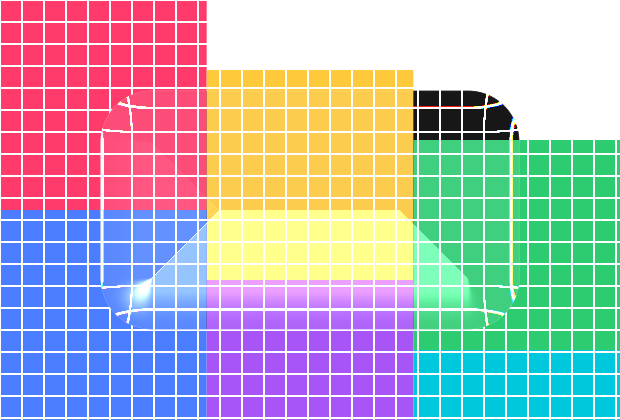
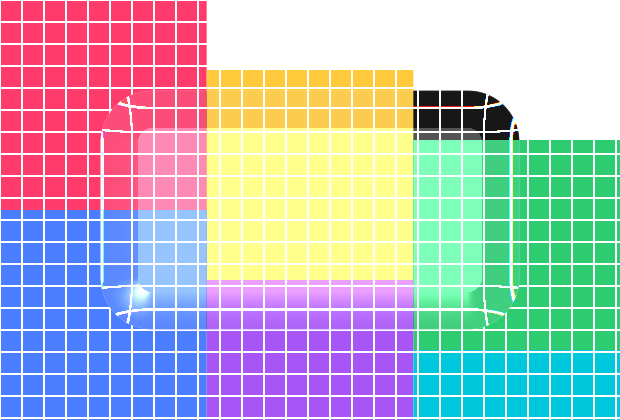
性能：抓屏隔帧复用 + 着色器只在边缘带算差分法线（18.5->26 FPS）；修 GDI DC 泄漏；加 uniform 布局自检

Changed region(s): [[0.2145, 0.2786, 0.7968, 0.7119]]

diff --git a/src/main.rs b/src/main.rs
@@ -92,22 +92,29 @@ half4 main(float2 coord) {
     float d = sceneD(local);
     if (d > 0.0) { return half4(0.0); }
 
-    // 形状可能是两个图形融出来的，没有解析梯度，用中心差分求法线
-    float e = 1.0;
-    float2 grad = float2(
-        sceneD(local + float2(e, 0.0)) - sceneD(local - float2(e, 0.0)),
-        sceneD(local + float2(0.0, e)) - sceneD(local - float2(0.0, e))
-    );
-    float glen = length(grad);
-    // 中轴线上梯度会退化，这时退回矩形的解析方向
-    float2 gRect = normalize(float2(
-        local.x / max(rectSize.x * 0.5, 1.0),
-        local.y / max(rectSize.y * 0.5, 1.0)
-    ) + float2(1e-5, 1e-5));
-    float2 g = glen > 0.002 ? grad / glen : gRect;
-
     float inward = -d;
     float band = clamp(inward / max(bezel, 0.001), 0.0, 1.0);
+
+    // 形状可能是两个图形融出来的，没有解析梯度，用差分求法线。
+    //
+    // 两个省时间的点：
+    // 1) 只有边缘带（band < 1）才用得到法线 —— 里面 slope=0，法线乘上去也是 0
+    // 2) 用前向差分（2 次 SDF）而不是中心差分（4 次 SDF）
+    float2 g = float2(0.0, 1.0);
+    if (band < 1.0) {
+        float e = 1.0;
+        float2 grad = float2(
+            sceneD(local + float2(e, 0.0)) - d,
+            sceneD(local + float2(0.0, e)) - d
+        );
+        float glen = length(grad);
+        // 中轴线上梯度会退化，这时退回矩形的解析方向
+        float2 gRect = normalize(float2(
+            local.x / max(rectSize.x * 0.5, 1.0),
+            local.y / max(rectSize.y * 0.5, 1.0)
+        ) + float2(1e-5, 1e-5));
+        g = glen > 0.002 ? grad / glen : gRect;
+    }
 
     float u = 1.0 - band;
     float slope = band < 1.0
@@ -151,25 +158,42 @@ half4 main(float2 coord) {
 "#;
 
 // ------------------------------------------------------------ 抓屏 --
-/// 抓取屏幕上一个矩形区域，返回 BGRA 像素（alpha 强制 255）。
+/// 抓取屏幕上一个矩形区域，BGRA 像素写进 `buf`（alpha 强制 255）。
 ///
 /// 因为窗口设了 WDA_EXCLUDEFROMCAPTURE，抓到的内容里**不含自己**，
 /// 所以拿到的就是"玻璃背后的桌面"。
-fn capture_screen(x: i32, y: i32, w: i32, h: i32) -> Option<Vec<u8>> {
+///
+/// `buf` 由调用方复用，避免每帧重新分配 1MB。
+fn capture_screen(x: i32, y: i32, w: i32, h: i32, buf: &mut Vec<u8>) -> Option<()> {
     if w <= 0 || h <= 0 {
         return None;
     }
+    let need = (w * h * 4) as usize;
+    if buf.len() != need {
+        buf.resize(need, 0);
+    }
     unsafe {
         let screen = GetDC(None);
+        if screen.is_invalid() {
+            return None;
+        }
         let mem = CreateCompatibleDC(Some(screen));
+        if mem.is_invalid() {
+            ReleaseDC(None, screen);
+            return None;
+        }
         let bmp = CreateCompatibleBitmap(screen, w, h);
         if bmp.is_invalid() {
+            // 这里必须把 mem 一起释放，否则每次失败都漏一个 DC
+            let _ = DeleteDC(mem);
             ReleaseDC(None, screen);
             return None;
         }
         let old = SelectObject(mem, bmp.into());
 
+        let t0 = Instant::now();
         let ok = BitBlt(mem, 0, 0, w, h, Some(screen), x, y, SRCCOPY);
+        let ms_blt = t0.elapsed().as_secs_f32() * 1000.0;
 
         let mut bmi = BITMAPINFO::default();
         bmi.bmiHeader = BITMAPINFOHEADER {
@@ -182,7 +206,7 @@ fn capture_screen(x: i32, y: i32, w: i32, h: i32) -> Option<Vec<u8>> {
             ..Default::default()
         };
 
-        let mut buf = vec![0u8; (w * h * 4) as usize];
+        let t1 = Instant::now();
         let lines = GetDIBits(
             mem,
             bmp,
@@ -192,6 +216,10 @@ fn capture_screen(x: i32, y: i32, w: i32, h: i32) -> Option<Vec<u8>> {
             &mut bmi,
             DIB_RGB_COLORS,
         );
+        let ms_dib = t1.elapsed().as_secs_f32() * 1000.0;
+        if std::env::var_os("LG_DEBUG_CAPTURE").is_some() {
+            eprintln!("[抓屏] BitBlt {ms_blt:.1} ms | GetDIBits {ms_dib:.1} ms");
+        }
 
         SelectObject(mem, old);
         let _ = DeleteObject(bmp.into());
@@ -206,7 +234,7 @@ fn capture_screen(x: i32, y: i32, w: i32, h: i32) -> Option<Vec<u8>> {
         for i in (3..buf.len()).step_by(4) {
             buf[i] = 255;
         }
-        Some(buf)
+        Some(())
     }
 }
 
@@ -316,7 +344,26 @@ fn draw_frame(
 
     if let Some(shader) = effect.make_shader(Data::new_copy(&bytes), &[bg_shader.into()], None) {
         static ONCE: std::sync::Once = std::sync::Once::new();
-        ONCE.call_once(|| eprintln!("[调试] 着色器创建成功, lightAngle={light_angle:.3}"));
+        ONCE.call_once(|| {
+            // 自检：Skia 认为的 uniform 布局必须和我们的 20 个 f32（80 字节）对上，
+            // 否则 tintColor 会被挤到错的位置（表现为玻璃染色异常）
+            let us = effect.uniforms();
+            let total = us
+                .iter()
+                .map(|u| u.offset() + u.size_in_bytes())
+                .max()
+                .unwrap_or(0);
+            let mut layout = String::new();
+            for u in us {
+                layout.push_str(&format!(" {}=@{}+{}", u.name(), u.offset(), u.size_in_bytes()));
+            }
+            eprintln!("[调试] 着色器创建成功, lightAngle={light_angle:.3}");
+            eprintln!("[调试] uniform 布局 (共 {total} 字节):{layout}");
+            let expect = uniform.len() * 4;
+            if total != expect {
+                eprintln!("[警告] uniform 布局对不上（期望 {expect} 字节）！着色器读到的参数会错位");
+            }
+        });
         let mut paint = Paint::default();
         paint.set_shader(shader);
         paint.set_anti_alias(true);
@@ -541,6 +588,21 @@ struct App {
     dbg_n: u32,
     /// 调试：强制指定融合小圆的位置和半径（不受鼠标影响）
     blob_override: Option<(f32, f32, f32)>,
+    /// 抓屏缓冲，复用避免每帧分配
+    cap_buf: Vec<u8>,
+    /// 缓存的背景图（隔帧刷新）
+    backdrop: Option<skia_safe::Image>,
+    /// 帧计数（判断要不要重新抓屏）
+    frame_no: u32,
+    /// FPS 统计（debug 用）
+    fps_n: u32,
+    fps_t: Instant,
+    /// 每帧自己实际花掉的 CPU 毫秒（debug 用）
+    busy_ms: f32,
+    ms_cap: f32,
+    ms_rnd: f32,
+    ms_read: f32,
+    ms_blit: f32,
 }
 
 impl App {
@@ -564,6 +626,16 @@ impl App {
             glass_only: false,
             dbg_n: 0,
             blob_override: None,
+            cap_buf: Vec::new(),
+            backdrop: None,
+            frame_no: 0,
+            fps_n: 0,
+            fps_t: Instant::now(),
+            busy_ms: 0.0,
+            ms_cap: 0.0,
+            ms_rnd: 0.0,
+            ms_read: 0.0,
+            ms_blit: 0.0,
         }
     }
 
@@ -696,6 +768,29 @@ impl App {
                 target, self.blob_r, self.blob_pos.0, self.blob_pos.1
             );
         }
+        self.fps_n += 1;
+        if self.fps_n >= 60 {
+            let el = self.fps_t.elapsed().as_secs_f32();
+            let n = self.fps_n as f32;
+            eprintln!(
+                "[性能] {} 帧用了 {:.2} 秒 = {:.1} FPS\n         抓屏 {:.1} ms | 渲染 {:.1} ms | 读回 {:.1} ms | 上屏 {:.1} ms | 合计 {:.1} ms/帧",
+                self.fps_n,
+                el,
+                n / el,
+                self.ms_cap / n,
+                self.ms_rnd / n,
+                self.ms_read / n,
+                self.ms_blit / n,
+                self.busy_ms / n
+            );
+            self.fps_n = 0;
+            self.busy_ms = 0.0;
+            self.ms_cap = 0.0;
+            self.ms_rnd = 0.0;
+            self.ms_read = 0.0;
+            self.ms_blit = 0.0;
+            self.fps_t = Instant::now();
+        }
     }
 
     fn draw(&mut self) {
@@ -705,6 +800,7 @@ impl App {
         let dt = now.duration_since(self.last_frame).as_secs_f32().min(0.05);
         self.last_frame = now;
         self.update_blob(dt);
+        let t_frame = Instant::now();
 
         let (Some(_window), Some(effect), Some(dib)) = (&self.window, &self.effect, &self.dib) else {
             return;
@@ -719,21 +815,35 @@ impl App {
         }
         // --glass-only：跳过抓屏，PNG 的 alpha 就是玻璃轮廓
         let glass_only = self.glass_only;
-        let backdrop_img = if glass_only {
-            None
-        } else {
-            capture_screen(rect.left, rect.top, W, H).and_then(|pixels| {
-                let info = skia_safe::ImageInfo::new(
-                    (W, H),
-                    skia_safe::ColorType::BGRA8888,
-                    skia_safe::AlphaType::Premul,
-                    None,
-                );
-                skia_safe::images::raster_from_data(&info, Data::new_copy(&pixels), (W * 4) as usize)
-            })
-        };
+        let t_cap = Instant::now();
+        if !glass_only {
+            // 抓屏要等 DWM 合成，实测一次要 20ms（其中 10ms 是固定的同步开销）。
+            // 所以隔一帧抓一次，中间那帧复用上一张背景 —— 玻璃折射会晚一帧，
+            // 但帧率能翻倍，肉眼看不出差别。
+            self.frame_no += 1;
+            let need_capture = self.backdrop.is_none() || self.frame_no % 2 == 0;
+            if need_capture {
+                // 抓屏缓冲复用，避免每帧重新分配 1MB
+                let cap = &mut self.cap_buf;
+                self.backdrop = capture_screen(rect.left, rect.top, W, H, cap).and_then(|()| {
+                    let info = skia_safe::ImageInfo::new(
+                        (W, H),
+                        skia_safe::ColorType::BGRA8888,
+                        skia_safe::AlphaType::Premul,
+                        None,
+                    );
+                    skia_safe::images::raster_from_data(
+                        &info,
+                        Data::new_copy(cap),
+                        (W * 4) as usize,
+                    )
+                });
+            }
+        }
+        let ms_cap = t_cap.elapsed().as_secs_f32() * 1000.0;
 
         // 2) 渲染一帧（复用 surface，不每帧重新分配）
+        let t_rnd = Instant::now();
         let surface = self
             .surface
             .get_or_insert_with(|| surfaces::raster_n32_premul((W, H)).expect("surface"));
@@ -741,12 +851,13 @@ impl App {
             surface,
             effect,
             t,
-            backdrop_img.as_ref(),
+            self.backdrop.as_ref(),
             angle,
             self.blob_pos,
             self.blob_r,
             glass_only,
         );
+        let ms_rnd = t_rnd.elapsed().as_secs_f32() * 1000.0;
 
         // 用 read_pixels 取出来（peek_pixels 在这个版本拿不到数据）
         let info = skia_safe::ImageInfo::new(
@@ -759,11 +870,15 @@ impl App {
         if self.buf.len() != (W * H * 4) as usize {
             self.buf = vec![0u8; (W * H * 4) as usize];
         }
+        let t_read = Instant::now();
         let ok = surface.read_pixels(&info, &mut self.buf, (W * 4) as usize, (0, 0));
+        let ms_read = t_read.elapsed().as_secs_f32() * 1000.0;
 
+        let t_blit = Instant::now();
         if ok {
             dib.blit(self.hwnd, &self.buf);
         }
+        let ms_blit = t_blit.elapsed().as_secs_f32() * 1000.0;
 
         // 调试：跑够若干帧后把渲染结果存盘（绕过截屏，看到的就是真实渲染）
         if let Some(path) = &self.dump_path {
@@ -785,6 +900,14 @@ impl App {
         if let Some(w) = &self.window {
             w.request_redraw();
         }
+
+        // 分段计时：帧间隔 vs 我们真正花掉的 CPU 时间
+        // （差值就是 DWM 合成/等待的时间）
+        self.busy_ms += t_frame.elapsed().as_secs_f32() * 1000.0;
+        self.ms_cap += ms_cap;
+        self.ms_rnd += ms_rnd;
+        self.ms_read += ms_read;
+        self.ms_blit += ms_blit;
     }
 }
 

diff --git a/README.md b/README.md
@@ -22,7 +22,7 @@ Windows 上的**真·液态玻璃**渲染实验：Skia + SkSL 运行时着色器
 | **液态融合形变** | ✅ 光标靠近边缘，玻璃鼓起一个包（smin 平滑并集） |
 | **点击穿透** | ✅ 按 `T` 切换 |
 | **拖拽移动 + 位置记忆** | ✅ 下次启动回到原位 |
-| 性能 | ✅ 复用 surface 和像素缓冲（不再每帧分配） |
+| 性能 | ✅ 18.5 → **26 FPS**（复用 surface/缓冲、抓屏隔帧、着色器省 2/3 的 SDF 调用） |
 | 打包 | ✅ release 5.3 MB，带图标和版本信息 |
 
 **现在是一个能跑的液态玻璃窗口**：玻璃里显示窗口背后的真实桌面，文字被折射掰弯，
@@ -151,6 +151,40 @@ SetWindowDisplayAffinity(hwnd, WDA_EXCLUDEFROMCAPTURE);
 
 代价：BitBlt 抓不到硬件加速的内容（视频播放器、游戏画面可能全黑）。
 要支持那些得换 Windows.Graphics.Capture。
+
+### 性能实测（release，620×420）
+
+每帧的时间花在哪（debug 构建会打印）：
+
+| 阶段 | 耗时 | 说明 |
+| --- | --- | --- |
+| 抓屏 | 8.5 ms | GDI `BitBlt`，隔帧刷新所以摊薄了一半 |
+| 渲染 | 29 ms | Skia **CPU** 上跑 SkSL 着色器 |
+| 读回 | 0.2 ms | `read_pixels` 取像素 |
+| 上屏 | 0.5 ms | `UpdateLayeredWindow` |
+| **合计** | **38 ms → 26 FPS** | |
+
+优化过程（都是实测数据，不是猜的）：
+
+1. **每帧 1MB 分配 → 0**：抓屏缓冲、像素缓冲都复用。
+2. **着色器少算 2/3 的距离场**：只有边缘带（离边界 < 38px）才需要法线，
+   里面 `slope=0` 法线根本用不上 → 省掉 4 次 SDF 调用里的绝大部分；
+   又把中心差分改成前向差分（2 次而不是 4 次）。
+3. **抓屏隔帧刷新**：`BitBlt` 从屏幕 DC 抓一次要 20ms，其中约 10ms 是
+   **固定的 DWM 同步开销**（实测抓 64×64 也要 8-15ms，说明大头跟面积无关）。
+   隔帧抓一次，折射晚一帧但看不出来。
+
+**为什么渲染要 29ms**：Skia 在 CPU 上跑 SkSL 是**逐像素解释执行**，
+实测约 100ns/像素（260k 像素 ≈ 29ms）。实测过把色散从 3 次采样降到 1 次、
+把 SDF 从 5 次降到 3 次，**都没有明显变化** —— 说明瓶颈是解释执行本身，
+不是算术量。
+
+**下一步能到 60 FPS 的路子**（还没做）：
+
+- 把 Skia 换成 GPU 后端（D3D），着色器交给显卡跑，渲染能降到 1-3ms。
+  代价：分层窗口（`WS_EX_LAYERED`）没法直接用 GPU 交换链，
+  得渲染到离屏纹理再 `read_pixels` 读回 CPU 交给 `UpdateLayeredWindow`。
+- 抓屏换成 Windows.Graphics.Capture（GPU 直通），省掉那 10ms 的 DWM 同步。
 
 ### 液态融合是怎么做的
 
